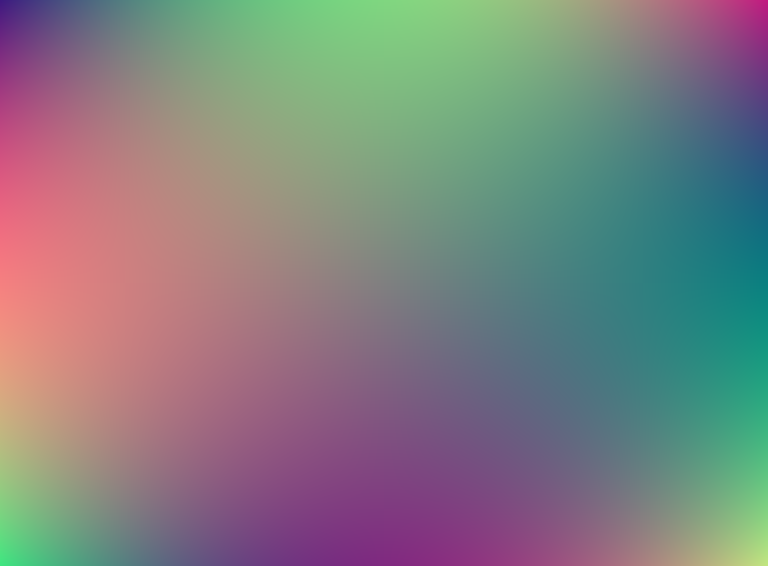
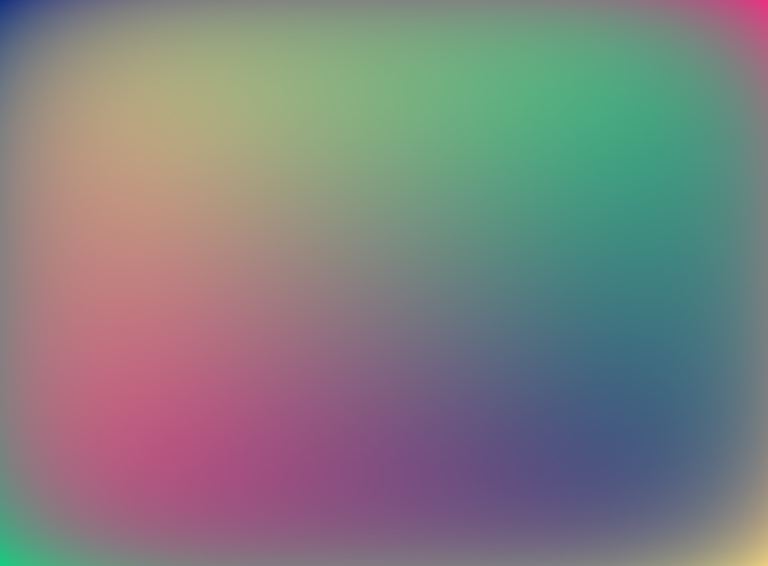
Keep the middle of the tube flat and bend at the rim
The bend grew with u² and the whole picture shrank 6% toward the centre, so
the screen read as a uniform dome. It now grows with ux⁴ + uy⁴: nearly zero
across the middle, 1 at each edge's midpoint and 2 at the corners, along
contours shaped like the tube's rounded opening, as on a real CRT whose
face is flatter in the middle and curves hardest at the corners. The edge
midpoints now land just past the rim (EDGE 0.995), which also hides the thin
black gap that showed on the left. BEND, EDGE and SCALE can be overridden
from the environment to try values.

diff --git a/src/scripts/crt-set.ts b/src/scripts/crt-set.ts
@@ -22,7 +22,7 @@ export const CRT = {
   screen: { left: 12.9, top: 5.9, width: 75.8, height: 52.3, radius: '6% / 8%' },
   /** The tube's bend (scripts/crt-curve-map.mjs): a displacement map, the largest shift it holds as
    *  a fraction of the screen's width, and how far each gun (red, green, blue) lands along it. */
-  curve: { map: '/tv/ibm-pcjr-curve.png', scale: 0.065, guns: [1.012, 1, 0.988] as const },
+  curve: { map: '/tv/ibm-pcjr-curve.png', scale: 0.1, guns: [1.012, 1, 0.988] as const },
   keys: [
     { left: 56.25, top: 64.7, width: 3.4, height: 3.1 },
     { left: 62.1, top: 64.7, width: 3.4, height: 3.1 },
